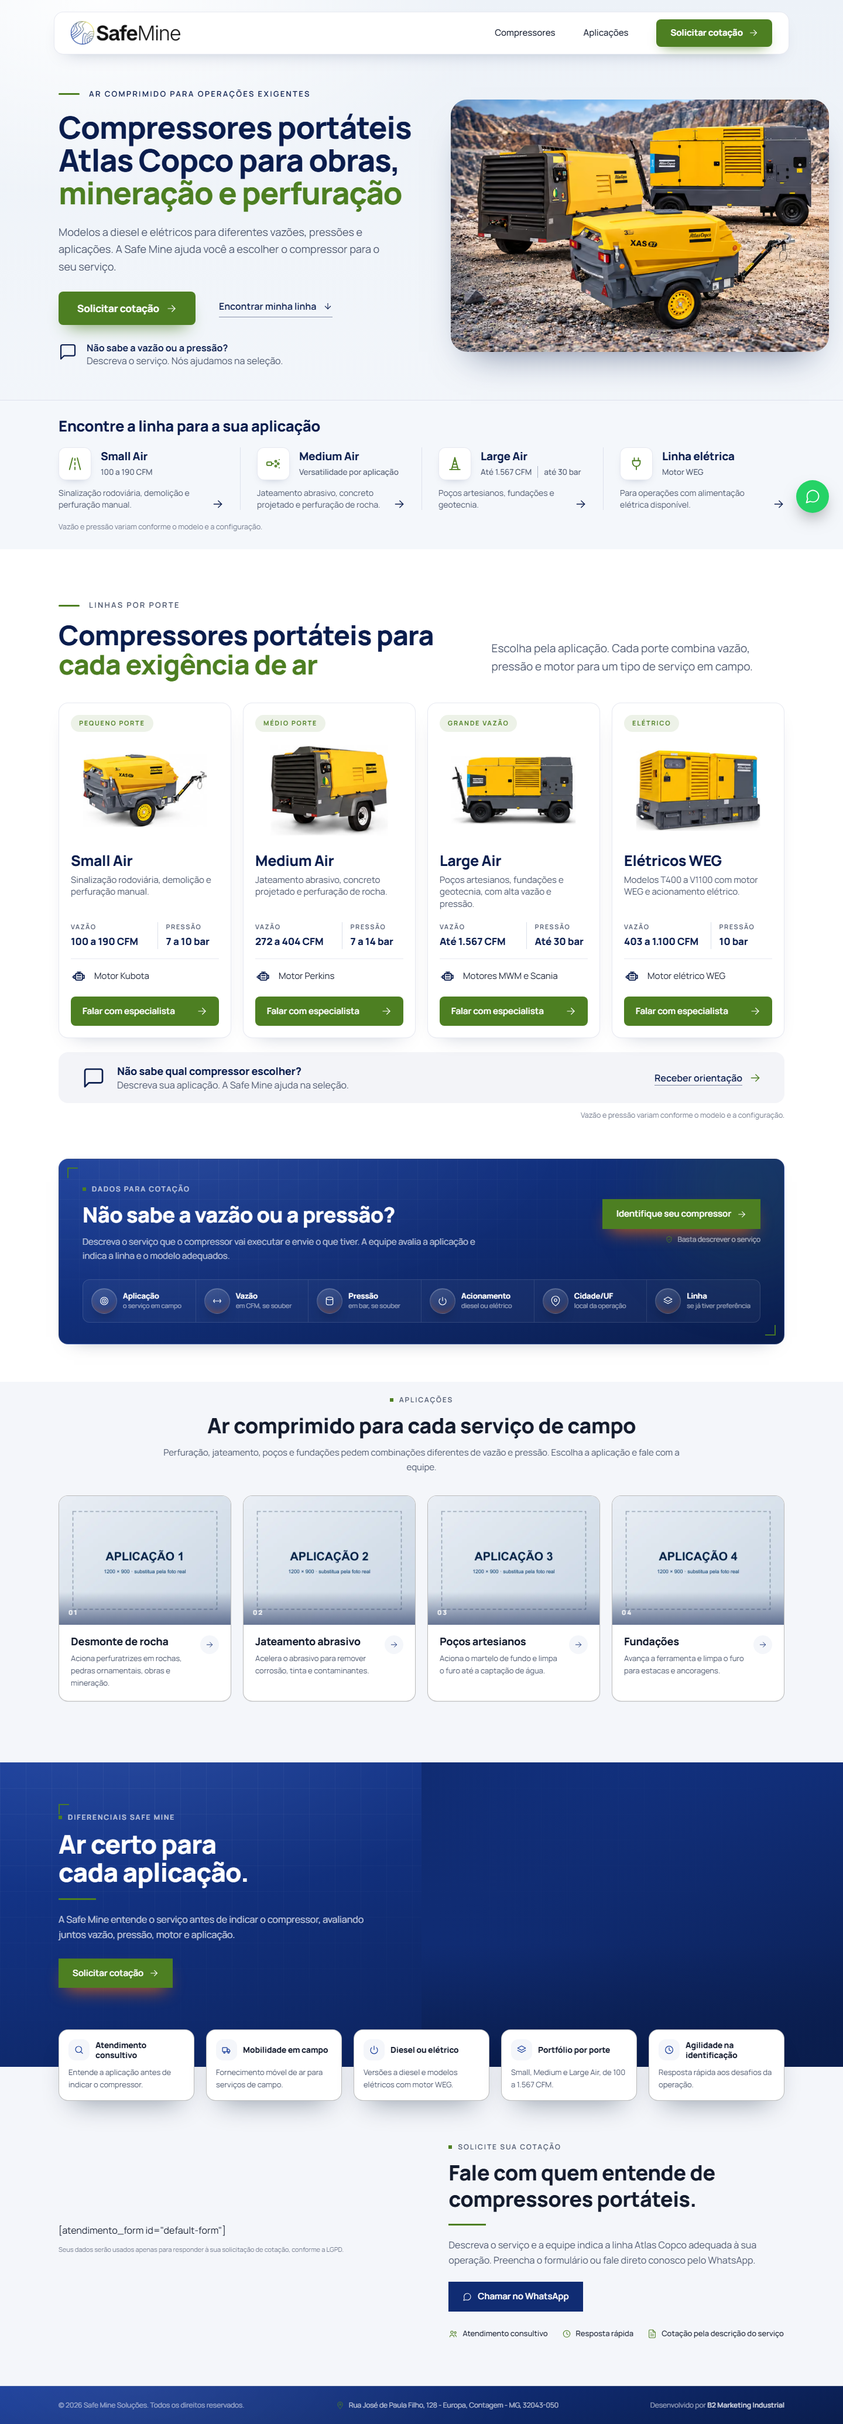
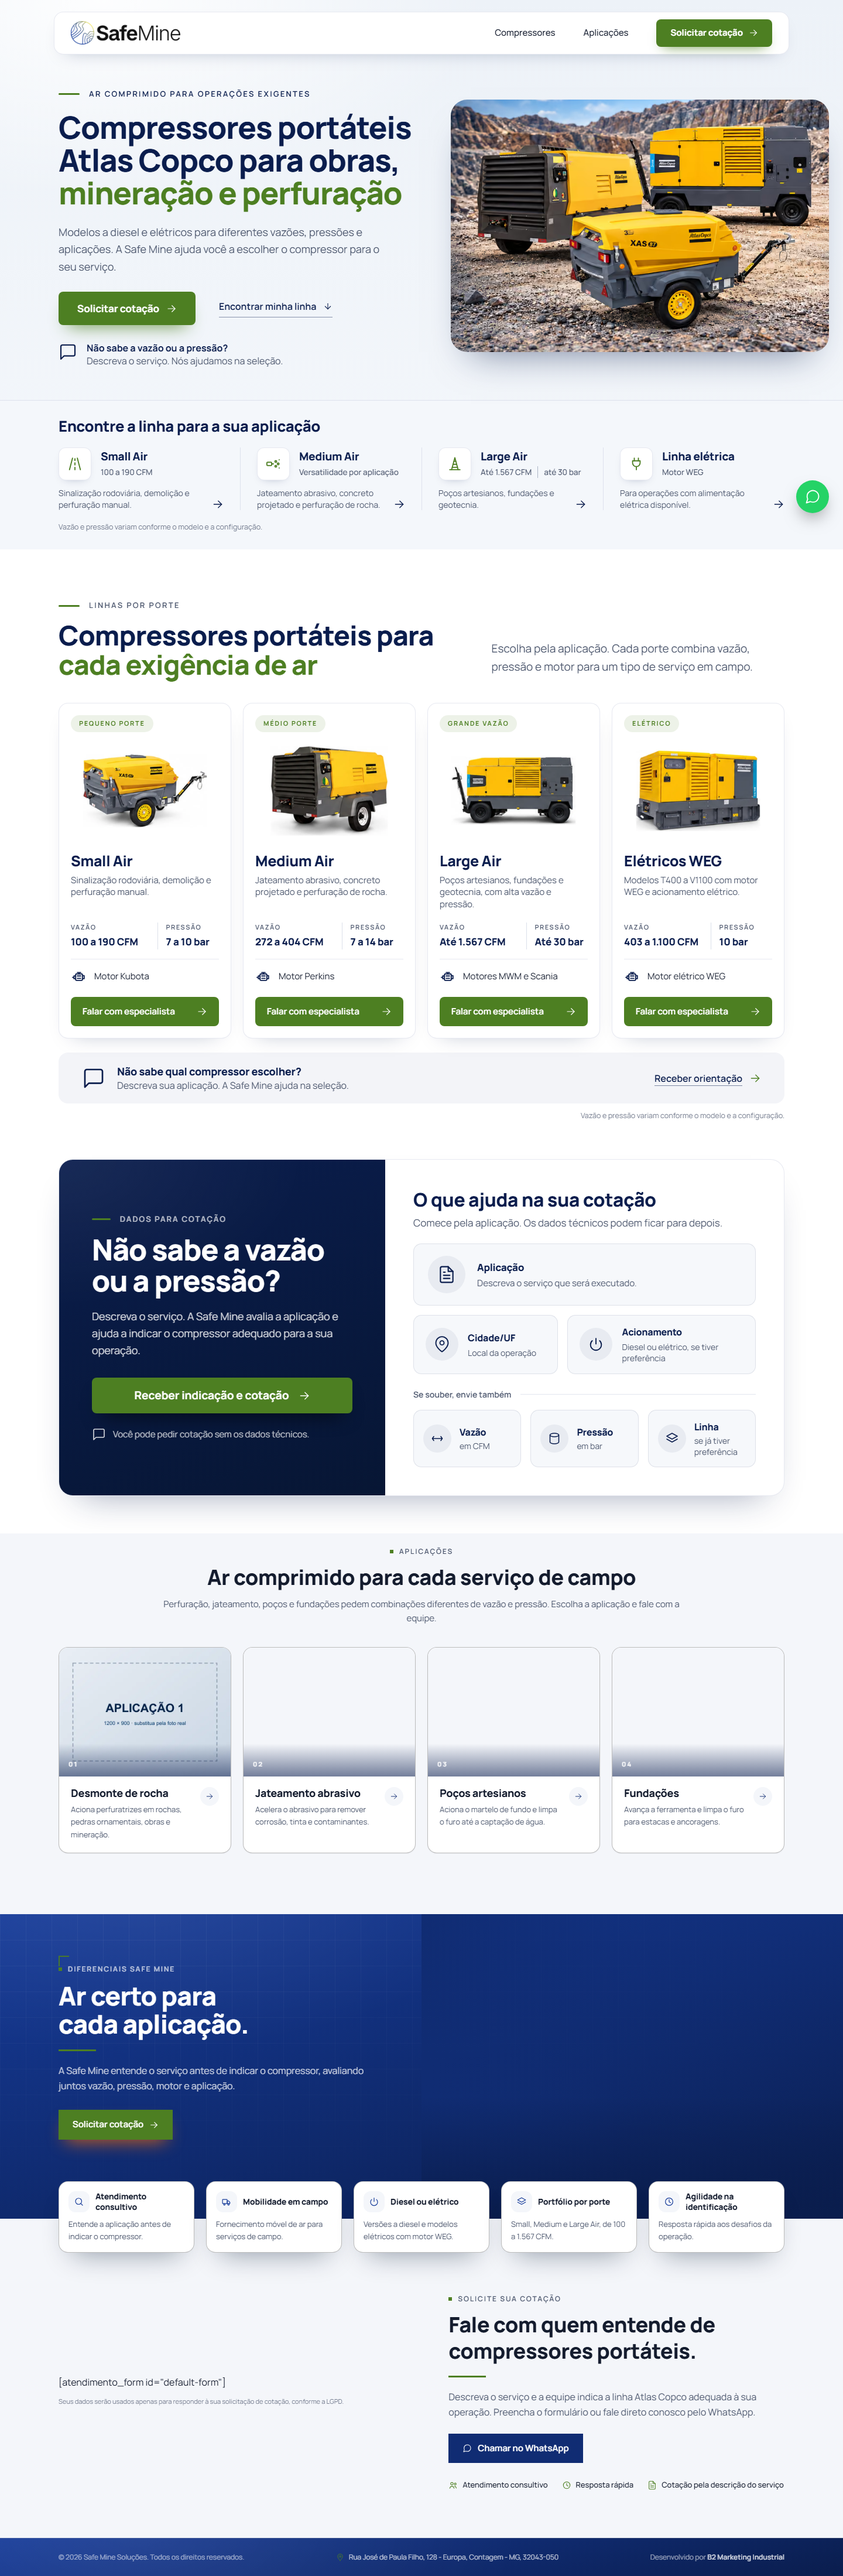
feat: painel de dados para cotação no layout do mockup — bloco navy e lista do que enviar
Card dividido a partir de 1280px: bloco navy com título, texto, botão "Receber indicação
e cotação" (identificar-cta) e reforço; ao lado, "O que ajuda na sua cotação" com
Aplicação em destaque, Cidade/UF e Acionamento, e Vazão, Pressão e Linha em "Se souber,
envie também". Ficha e dados atualizados; componente da biblioteca alterado na LP —
registrado em docs/BRIEFING.md.

diff --git a/src/data/sections/identificar.ts b/src/data/sections/identificar.ts
@@ -5,6 +5,9 @@
  * mãos. São 6 exatos: a faixa é um grid de 2/3/6 colunas com divisórias, e
  * qualquer outro número deixa célula órfã.
  *
+ * Nesta LP o painel segue o mockup de 29/10 (componente alterado — ver docs/BRIEFING.md):
+ * bloco navy com o CTA à esquerda e, à direita, os 6 dados em dois grupos.
+ *
  * Os 6 dados são os campos do formulário pedido no briefing, que o padrão substitui
  * pelo shortcode do plugin. Vazão e pressão entram como opcionais: quem não as sabe
  * pede cotação descrevendo o serviço.
@@ -20,14 +23,23 @@ export interface SupportItem {
 export const supportPanel = {
   eyebrow: 'Dados para cotação',
   title: 'Não sabe a vazão ou a pressão?',
-  text: 'Descreva o serviço que o compressor vai executar e envie o que tiver. A equipe avalia a aplicação e indica a linha e o modelo adequados.',
-  microcopy: 'Basta descrever o serviço',
+  text: 'Descreva o serviço. A Safe Mine avalia a aplicação e ajuda a indicar o compressor adequado para a sua operação.',
+  microcopy: 'Você pode pedir cotação sem os dados técnicos.',
+  /** Rótulo do botão do bloco navy (layout do mockup de 29/10). */
+  ctaLabel: 'Receber indicação e cotação',
+  /** Lado claro: os 3 primeiros itens são o essencial; os demais, "se souber". */
+  list: {
+    title: 'O que ajuda na sua cotação',
+    text: 'Comece pela aplicação. Os dados técnicos podem ficar para depois.',
+    optionalLabel: 'Se souber, envie também',
+    optionalFrom: 3,
+  },
   items: [
-    { icon: 'target', label: 'Aplicação', hint: 'o serviço em campo' },
-    { icon: 'move', label: 'Vazão', hint: 'em CFM, se souber' },
-    { icon: 'cylinder', label: 'Pressão', hint: 'em bar, se souber' },
-    { icon: 'power', label: 'Acionamento', hint: 'diesel ou elétrico' },
-    { icon: 'pin', label: 'Cidade/UF', hint: 'local da operação' },
+    { icon: 'file', label: 'Aplicação', hint: 'Descreva o serviço que será executado.' },
+    { icon: 'pin', label: 'Cidade/UF', hint: 'Local da operação' },
+    { icon: 'power', label: 'Acionamento', hint: 'Diesel ou elétrico, se tiver preferência' },
+    { icon: 'move', label: 'Vazão', hint: 'em CFM' },
+    { icon: 'cylinder', label: 'Pressão', hint: 'em bar' },
     { icon: 'layers', label: 'Linha', hint: 'se já tiver preferência' },
   ],
 } as const satisfies {
@@ -35,5 +47,7 @@ export const supportPanel = {
   title: string
   text: string
   microcopy: string
+  ctaLabel: string
+  list: { title: string; text: string; optionalLabel: string; optionalFrom: number }
   items: readonly [SupportItem, SupportItem, SupportItem, SupportItem, SupportItem, SupportItem]
 }

diff --git a/docs/BRIEFING.md b/docs/BRIEFING.md
@@ -155,6 +155,15 @@ Também em 29/10/2026, a seção `linhas` passou ao layout do mockup seguinte: c
 - As descrições dos cards foram encurtadas como no mockup (sem "Ar móvel para" / "Para"), na ficha e nos dados.
 - **Fotos provisórias**: as 4 fotos de produto foram recortadas do próprio mockup (cerca de 330 px de largura útil, ampliadas para 800×600 com fundo branco). Servem para a revisão; o slot `linhas` continua em `assets.pendentes` até chegarem os originais.
 
+### Seção "Dados para cotação" (`identificar`)
+
+Também em 29/10/2026, o painel passou ao layout do mockup: card dividido, com bloco navy à esquerda (título, texto, botão "Receber indicação e cotação" com `data-cta="identificar-cta"` e a frase de reforço) e, à direita, "O que ajuda na sua cotação" com os 6 dados em dois grupos — Aplicação em destaque, Cidade/UF e Acionamento; e, sob "Se souber, envie também", Vazão, Pressão e Linha. Lado a lado a partir de 1280 px; abaixo, empilhado. Continua sendo o bloco navy da primeira metade da página.
+
+- O componente `src/components/sections/SupportPanel.astro` foi alterado dentro da LP. **`npm run compose` o sobrescreve com o da biblioteca** — guarde-o antes de recompor.
+- Texto, reforço e itens foram atualizados na ficha e nos dados. O reforço do mockup ("Você pode pedir cotação sem ter os dados técnicos.") tem 50 caracteres e o contrato da seção aceita 48: entrou "Você pode pedir cotação sem os dados técnicos.".
+- Campos novos em `identificar.ts`, fora da ficha: `ctaLabel` e `list` (título, texto, rótulo do grupo opcional e o índice em que ele começa).
+- Ícones `file` e `pin` no lugar de `file-text` e `map-pin`: o validador da ficha só reconhece nomes de ícone sem hífen.
+
 ## Dados não aplicados
 
 Segundo WhatsApp (31) 99710-0350; e-mail, LinkedIn, Instagram e QR code; razão social e CNPJ; controlador PRS / AirXpert; ferramentas e webshop da Atlas Copco; organograma APE; outras linhas da Safe Mine; ano de fundação (2017).

diff --git a/docs/FICHA-LP.md b/docs/FICHA-LP.md
@@ -264,24 +264,24 @@ blocos:
     papeis: [Compras, Engenharia]
     eyebrow: Dados para cotação
     title: Não sabe a vazão ou a pressão?
-    microcopy: Basta descrever o serviço
-    text: Descreva o serviço que o compressor vai executar e envie o que tiver. A equipe avalia a aplicação e indica a linha e o modelo adequados.
+    microcopy: Você pode pedir cotação sem os dados técnicos.
+    text: Descreva o serviço. A Safe Mine avalia a aplicação e ajuda a indicar o compressor adequado para a sua operação.
     items:
-      - icon: target
+      - icon: file
         label: Aplicação
-        hint: o serviço em campo
-      - icon: move
-        label: Vazão
-        hint: em CFM, se souber
-      - icon: cylinder
-        label: Pressão
-        hint: em bar, se souber
-      - icon: power
-        label: Acionamento
-        hint: diesel ou elétrico
+        hint: Descreva o serviço que será executado.
       - icon: pin
         label: Cidade/UF
-        hint: local da operação
+        hint: Local da operação
+      - icon: power
+        label: Acionamento
+        hint: Diesel ou elétrico, se tiver preferência
+      - icon: move
+        label: Vazão
+        hint: em CFM
+      - icon: cylinder
+        label: Pressão
+        hint: em bar
       - icon: layers
         label: Linha
         hint: se já tiver preferência
